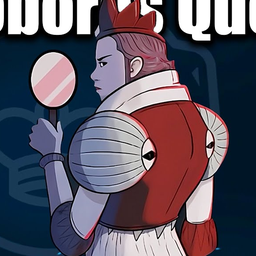
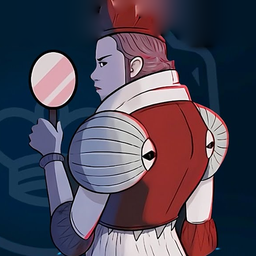
art-audit-q3: _RFXN1Ye3sY ouroboros_queen: video title text inpainted out (band behind it repainted from the navy bg; crown kept, top of crown softened where the 's' covered it)

Changed region(s): [[0.4375, 0.0, 1.0, 0.1875], [0.0, 0.0, 0.4062, 0.1875]]

diff --git a/rebuild/app/tools/art_q3a_fix.py b/rebuild/app/tools/art_q3a_fix.py
@@ -157,6 +157,47 @@ def goose():             # Y7KKKTTkwNk: the old cut lost the goose's thick black
     save_rgba(a, soft_alpha(m), 'Y7KKKTTkwNk/goose.png', pad=4, size=256)
 
 
+
+def inpaint(a, mask, iters=600, init=True):
+    """fill mask pixels smoothly from their surroundings: normalized-convolution start, then Jacobi (harmonic) iterations."""
+    a = a.astype(np.float64).copy(); K = (~mask).astype(np.float64)
+    for c in range(a.shape[2] if init else 0):
+        est = ndimage.gaussian_filter(a[..., c] * K, 8, mode='nearest') / np.maximum(ndimage.gaussian_filter(K, 8, mode='nearest'), 1e-6)
+        a[..., c][mask] = est[mask]
+    for _ in range(iters):
+        e = np.pad(a, ((1, 1), (1, 1), (0, 0)), mode='edge')      # edge padding (np.roll would wrap the bottom in)
+        avg = (e[:-2, 1:-1] + e[2:, 1:-1] + e[1:-1, :-2] + e[1:-1, 2:]) / 4
+        a[mask] = avg[mask]
+    return a
+
+
+@job
+def ouroboros_queen():   # _RFXN1Ye3sY: the video's title 'Ouroboros Queen' runs across the top of the boss portrait (no clean frame of the
+    # boss exists in our frames).  Recut from the 580px sprite: the white title glyphs (white blobs starting in the top 70px)
+    # + 10px (their dark drop shadow) are inpainted from their surroundings (navy background, crown), then the 580px square is resized to 256.
+    a = rgb(os.path.join(SP, '_RFXN1Ye3sY_ouroboros_queen.png'))
+    w = a.min(-1) > 170
+    lab, n = ndimage.label(w)
+    objs = ndimage.find_objects(lab)
+    txt = np.zeros_like(w)
+    for i, sl in enumerate(objs):
+        if sl is not None and sl[0].start < 70 and sl[0].stop < 110:
+            txt |= lab == i + 1
+    m = ndimage.binary_dilation(txt, iterations=10)          # glyphs + their dark drop shadow
+    # the title's dark shadow also darkens the whole band behind it: repaint the band (y < 105) except the crown
+    # (red pixels + 7px for its outline) from the navy background below it
+    r_, g_, b_ = a[..., 0], a[..., 1], a[..., 2]
+    fig = (a.max(-1) > 70) & ~m & ~ndimage.binary_dilation(txt, iterations=14)   # crown, hair, forehead
+    fig = ndimage.binary_dilation(fig, iterations=4)
+    band = np.zeros_like(m); band[:105] = True
+    m = m | (band & ~fig)
+    a = a.copy(); a[:105] = np.where(m[:105, :, None], a[105:106], a[:105])   # start the band from the row below it
+    out = inpaint(a, m, iters=1500, init=False)
+    Image.fromarray(np.clip(out, 0, 255).astype(np.uint8), 'RGB').resize((256, 256), Image.LANCZOS) \
+        .save(os.path.join(M, '_RFXN1Ye3sY', 'ouroboros_queen.png'), optimize=True)
+    print('_RFXN1Ye3sY/ouroboros_queen.png text px', int(txt.sum()))
+
+
 if __name__ == '__main__':
     for n in (sys.argv[1:] or list(JOBS)):
         JOBS[n]()
